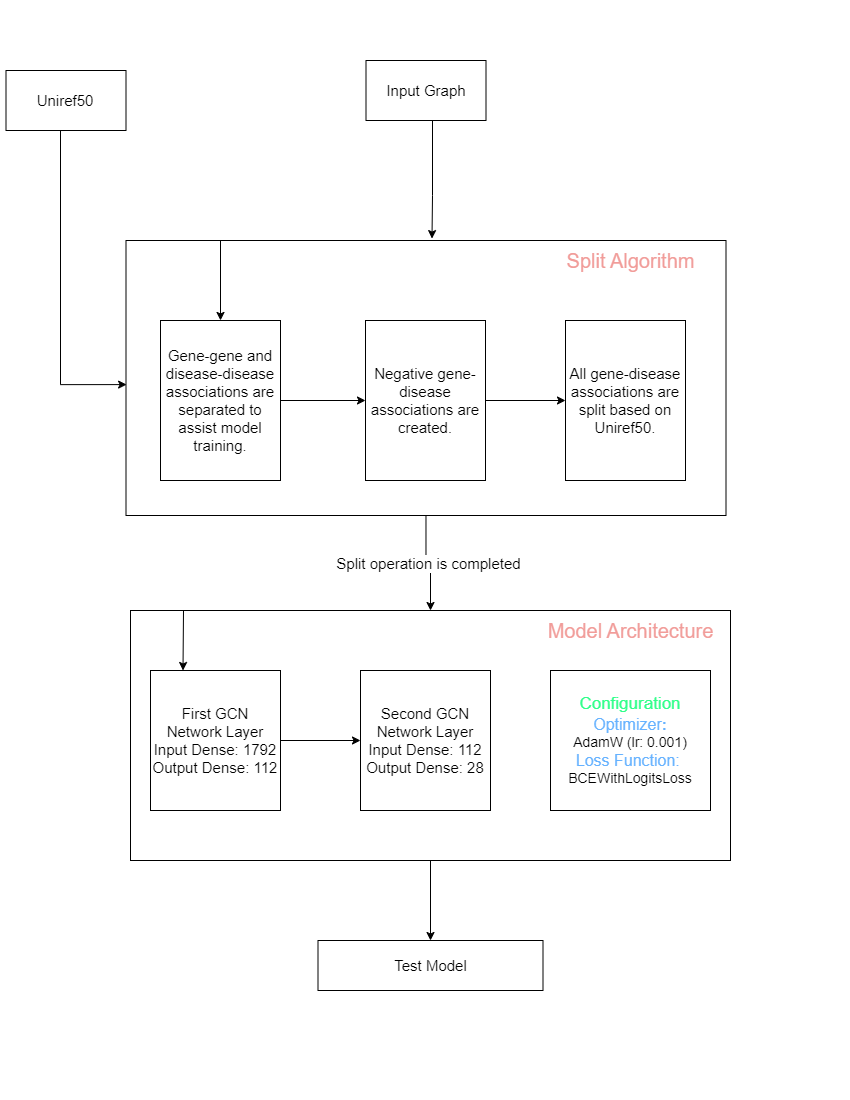
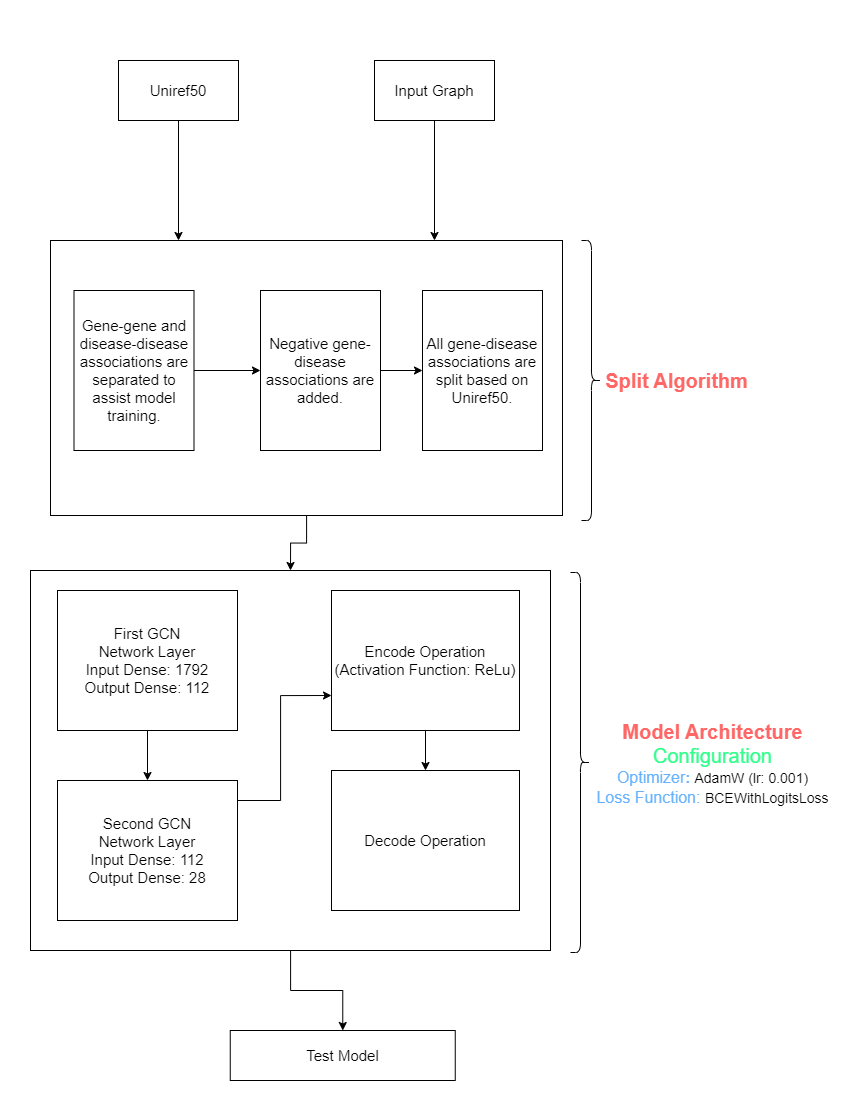
updating readme.md files, adding new images and updating exist images.

diff --git a/README.md b/README.md
@@ -52,6 +52,186 @@ This section intends to guide the users on how to run GeDiLiP.
 
 First of all, please readme files inside **source-files** and **graph-files** folders. File unzip operations are required. File unzip operations' command is written in readme files in **source-files** and **graph-files** folders.
 
+# Proposed Project Steps:
+
+The proposed method is mentioned in below. Also inside of the Main-Project folder, proposed method's steps are mentioned with seperated folder.
+
+
+## **Gathering-Data**
+------------------------
+This part is used to gather information from UMLS and DisGeNet via using API. 
+
+
+:warning:
+
+Before run this programs, you must build config.py file that store required information when access UMLS and DisGeNet API.
+
+Apikey is required to access [UMLS](https://uts-ws.nlm.nih.gov/rest/content/) server. Apikey is used to gather data from [UMLS](https://uts-ws.nlm.nih.gov/rest/content/) server, you can research in this [documentation](https://documentation.uts.nlm.nih.gov/rest/search/)
+
+Email and password is used to enroll to the Disgenet, you can research in this [documentation](https://www.disgenet.org/api/).
+
+:warning:
+
+Your config.py file must be inside of the ./Main-Project/Gathering-Data/ folder.
+
+:warning:
+
+Inside of the config.py file is mention in below
+
+	config = {
+		"email":"example@example.com",
+		"password":"example",
+		"apikey":"example-apikey"
+	}
+
+
+:warning:
+
+
+if you want to gather DisGeNet informations, you should this command that mentioned in below.
+```
+	python3 gather_gene_disease_information.py
+```
+
+---
+
+
+if you want to gather diseases informations from UMLS, you should this command that mentioned in below.
+
+```
+	python3 gather_disease_data_from_umls.py
+```
+
+
+
+:warning:
+
+***python*** keyword is used to call ***python3*** in some machines. If your machine is like that, you can change ***python3*** keyword with ***python*** keyword.
+
+## **Build-Graph**
+------------------------
+
+In this part, customizable graph files are built. Steps' of the build customizable graph is mentioned in below. 
+
+:warning:
+
+<p align="center"> 
+    <img src="Main-Project/Build-Graph/build-main-graph.png">
+</p>
+
+
+### Input Parameter
+
+Only input parameter is gene-disease score. 
+
+#### Example Usages
+For example, you want build a graph that gene-disease score is equal and more that 0.5, you can run this command.
+
+```
+    python3 build_graph.py 0.5
+```
+
+---
+
+Another example, you want build a graph that gene-disease score is equal and more that 0.1, you can run this command.
+
+```
+    python3 build_graph.py 0.1
+```
+
+---
+
+Another example, you want build a graph that gene-disease score is equal and more that 0.05, you can run this command.
+
+```
+    python3 build_graph.py 0.05
+```
+
+
+:warning:
+
+***python*** keyword is used to call ***python3*** in some machines. If your machine is like that, you can change ***python3*** keyword with ***python*** keyword.
+
+
+## **Run-Model**
+------------------------
+
+In this part, our deep learning model is trained and tested. Steps' of the train/test process is mentioned in below.
+
+<p align="center"> 
+    <img src="Main-Project/Run-Model/run-model.png">
+</p>
+
+### Machine Learning Model
+
+In this part, our machine learning model's structure mentioned in below.
+<p align="center"> 
+    <img src="Main-Project/Run-Model/NN-Structure.png">
+</p>
+
+### Input Parameter
+Only input parameter is a path of the graph file that is a dataset model is trained/tested on this dataset.
+
+#### Example Usages
+For example, you want run model with min gene-disase score is 0.5, you can call this command.
+```
+    python3 run_model.py "../../graph-files/Graph_Own_0.5.pt"
+```
+
+Another example, you want run model with min gene-disase score is 0.1, you can call this command.
+
+```
+    python3 run_model.py "../../graph-files/Graph_Own_0.1.pt"
+```
+
+Another example, you want run model with min gene-disase score is 0.1, you can call this command.
+
+```
+    python3 run_model.py "../../graph-files/Graph_Own_0.05.pt"
+```
+
+
+:warning:
+
+***python*** keyword is used to call ***python3*** in some machines. If your machine is like that, you can change ***python3*** keyword with ***python*** keyword.
+
+## Output Files
+
+After train model operation is completed. Best validation and test result is stored in a csv file.
+
+---
+
+For example, you run this command, that is mentioned in below.
+```
+    python3 run_model.py "../../graph-files/Graph_Own_0.5.pt"
+```
+
+End of the train process, the best validation and test result are store in ***val-resultsGraph_Own_0.5.csv*** and ***test-resultsGraph_Own_0.5.csv***
+
+---
+
+Another example, you run this command, that is mentioned in below.
+
+```
+    python3 run_model.py "../../graph-files/Graph_Own_0.1.pt"
+```
+
+End of the train process, the best validation and test result are store in ***val-resultsGraph_Own_0.1.csv*** and ***test-resultsGraph_Own_0.1.csv***
+
+---
+
+Another example, you run this command, that is mentioned in below.
+
+```
+    python3 run_model.py "../../graph-files/Graph_Own_0.05.pt"
+```
+
+End of the train process, the best validation and test result are store in ***val-resultsGraph_Own_0.05.csv*** and ***test-resultsGraph_Own_0.05.csv***
+
+
+
+
+
 
 &nbsp;
 

diff --git a/Comparison-Open-Graph-Dataset/Run_Model/README.md b/Comparison-Open-Graph-Dataset/Run_Model/README.md
@@ -6,6 +6,12 @@ In this part, our deep learning model is trained and tested. Steps' of the train
     <img src="run-model.png">
 </p>
 
+## Machine Learning Model
+In this part, our machine learning model's structure mentioned in below.
+<p align="center"> 
+    <img src="NN-Structure.png">
+</p>
+
 ## Input Parameter
 Only input parameter is a path of the graph file that is a dataset model is trained/tested on this dataset.
 

diff --git a/Comparison-SkipGNN/Run_Model/README.md b/Comparison-SkipGNN/Run_Model/README.md
@@ -6,6 +6,12 @@ In this part, our deep learning model is trained and tested. Steps' of the train
     <img src="run-model.png">
 </p>
 
+## Machine Learning Model
+In this part, our machine learning model's structure mentioned in below.
+<p align="center"> 
+    <img src="NN-Structure.png">
+</p>
+
 ## Input Parameter
 Only input parameter is a path of the graph file that is a dataset model is trained/tested on this dataset.
 

diff --git a/Main-Project/Run-Model/README.md b/Main-Project/Run-Model/README.md
@@ -6,6 +6,12 @@ In this part, our deep learning model is trained and tested. Steps' of the train
     <img src="run-model.png">
 </p>
 
+## Machine Learning Model
+In this part, our machine learning model's structure mentioned in below.
+<p align="center"> 
+    <img src="NN-Structure.png">
+</p>
+
 ## Input Parameter
 Only input parameter is a path of the graph file that is a dataset model is trained/tested on this dataset.
 
